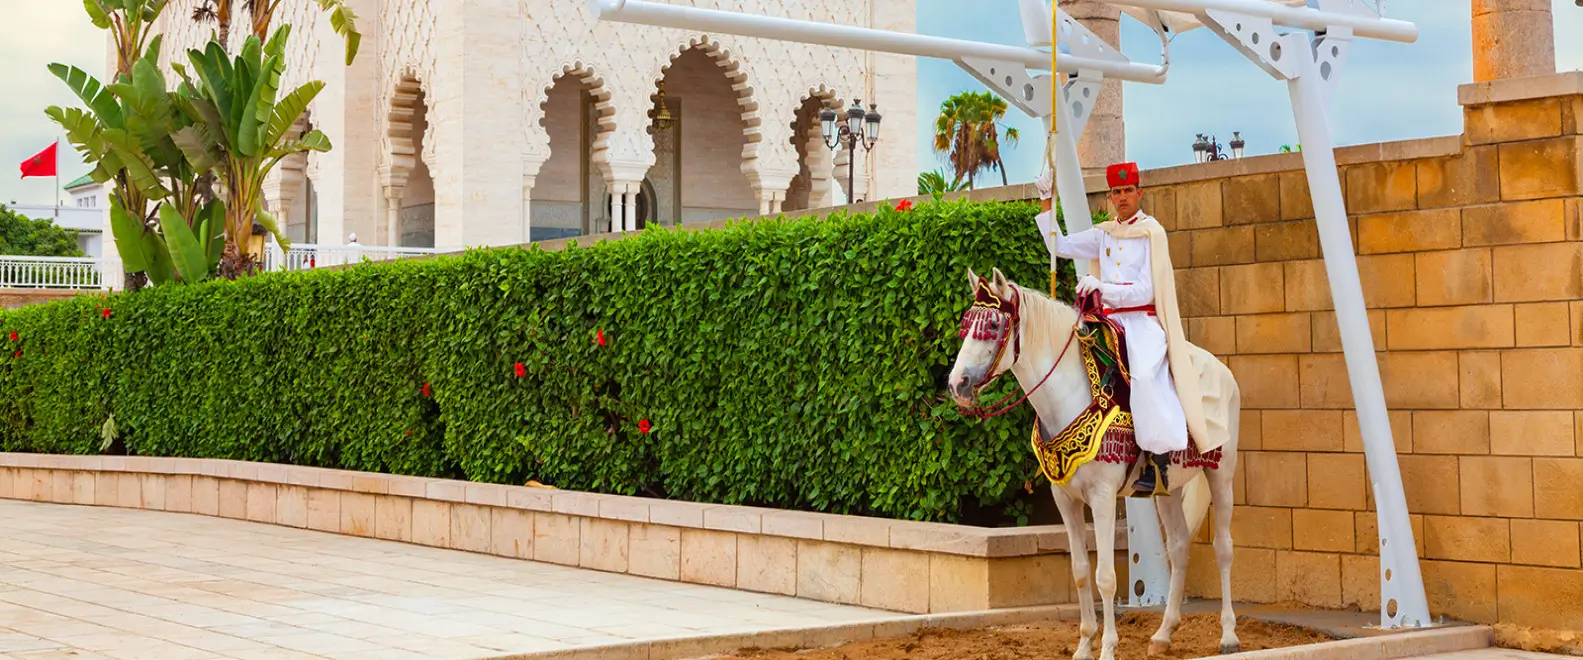
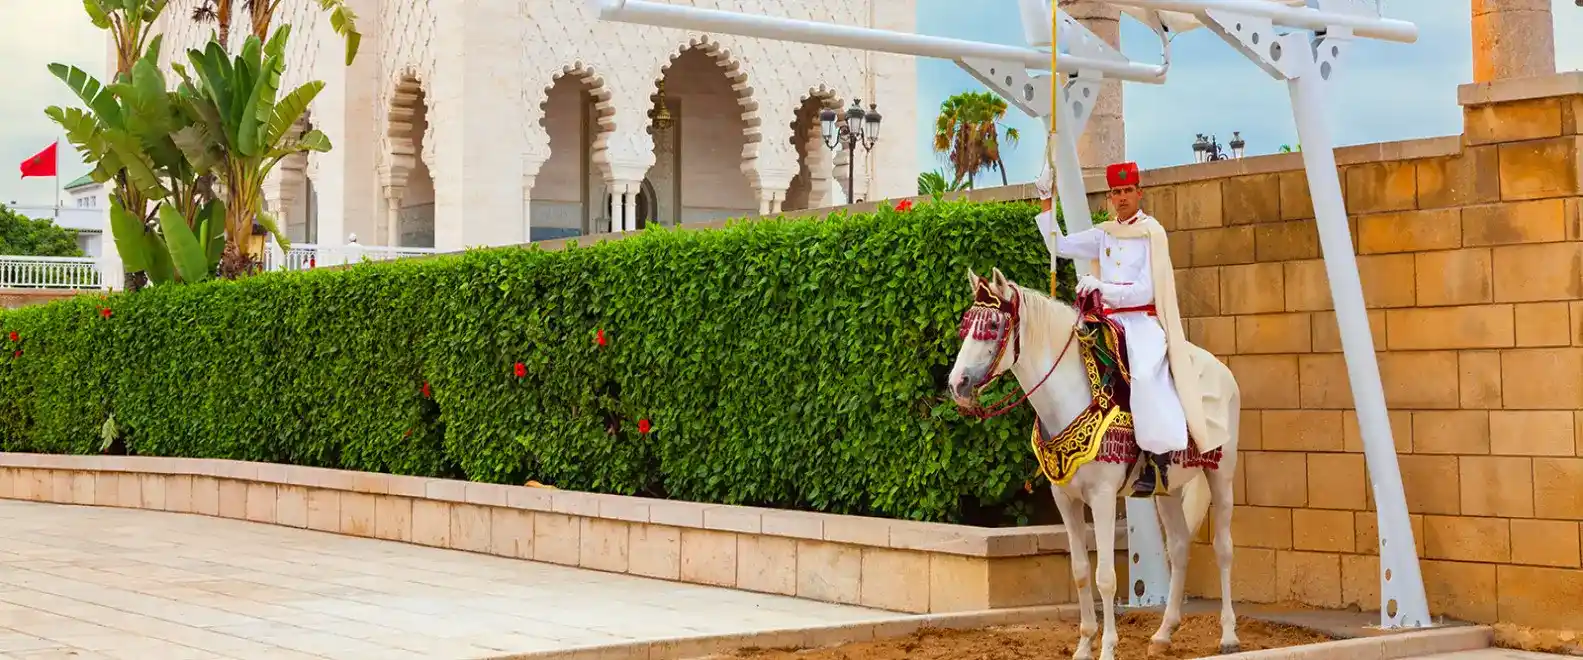
rgrg

diff --git a/index.html b/index.html
@@ -38,7 +38,7 @@
     <meta property="og:url" content="https://osalon-cars.ma/fr" />
     <meta property="og:title" content="Location de Voiture Sala Al Jadida | Agence O'Salon Car Maroc" />
     <meta property="og:description" content="Agence de location de voiture à Sala Al Jadida. Location de voiture Sala Al Jadida, Rabat et aéroport Rabat-Salé. Flotte moderne, tarifs compétitifs." />
-    <meta property="og:image" content="https://osalon-cars.ma/logo-osalon.pdf.png" />
+    <meta property="og:image" content="https://osalon-cars.ma/logo-osalon.pdf.webp" />
     <meta property="og:image:width" content="1200" />
     <meta property="og:image:height" content="630" />
     <meta property="og:locale" content="fr_FR" />
@@ -51,11 +51,11 @@
     <meta name="twitter:url" content="https://osalon-cars.ma/fr" />
     <meta name="twitter:title" content="Location de Voiture Sala Al Jadida | Agence O'Salon Car Maroc" />
     <meta name="twitter:description" content="Agence de location de voiture à Sala Al Jadida. Location de voiture Sala Al Jadida, Rabat et aéroport Rabat-Salé. Flotte moderne, tarifs compétitifs." />
-    <meta name="twitter:image" content="https://osalon-cars.ma/logo-osalon.pdf.png" />
+    <meta name="twitter:image" content="https://osalon-cars.ma/logo-osalon.pdf.webp" />
     
     <!-- Favicon -->
     <link rel="icon" type="image/x-icon" href="/favicon.ico">
-    <link rel="apple-touch-icon" href="/logo-osalon.pdf.png" />
+    <link rel="apple-touch-icon" href="/logo-osalon.pdf.webp" />
     
     <!-- Structured Data (JSON-LD) -->
     <script type="application/ld+json">
@@ -64,7 +64,7 @@
       "@type": "CarRentalService",
       "name": "O'Salon Car - Location de Voiture Sala Al Jadida",
       "alternateName": "Agence de Location de Voiture Sala Al Jadida",
-      "image": "https://osalon-cars.ma/logo-osalon.pdf.png",
+      "image": "https://osalon-cars.ma/logo-osalon.pdf.webp",
       "@id": "https://osalon-cars.ma/",
       "url": "https://osalon-cars.ma/fr",
       "telephone": "+212661492612",
@@ -118,7 +118,7 @@
       "url": "https://osalon-cars.ma/",
       "logo": {
         "@type": "ImageObject",
-        "url": "https://osalon-cars.ma/logo-osalon.pdf.png",
+        "url": "https://osalon-cars.ma/logo-osalon.pdf.webp",
         "width": 400,
         "height": 400
       },
@@ -273,7 +273,7 @@
     <link rel="preconnect" href="https://www.transparenttextures.com">
     
     <!-- LCP Image Preload -->
-    <link rel="preload" href="/osalon-hero.webp" as="image" type="image/webp" fetchpriority="high">
+    <link rel="preload" href="/osalon-hero.webp" as="image" type="image/webp" fetchpriority="high" media="(min-width: 768px)">
     
     <!-- Asynchronous Google Fonts -->
     <link rel="preload" as="style" href="https://fonts.googleapis.com/css2?family=Playfair+Display:wght@400;600;700&family=Outfit:wght@300;400;500;600;700&family=Cairo:wght@400;600;700&display=swap">
@@ -281,15 +281,52 @@
     <noscript>
       <link rel="stylesheet" href="https://fonts.googleapis.com/css2?family=Playfair+Display:wght@400;600;700&family=Outfit:wght@300;400;500;600;700&family=Cairo:wght@400;600;700&display=swap">
     </noscript>
+
+    <style>
+      #initial-loader {
+        position: fixed;
+        top: 0;
+        left: 0;
+        right: 0;
+        bottom: 0;
+        display: flex;
+        flex-direction: column;
+        align-items: center;
+        justify-content: center;
+        background-color: #ffffff;
+        z-index: 99999;
+        font-family: 'Outfit', sans-serif;
+        transition: opacity 0.3s ease-out;
+      }
+      .loader-spinner {
+        width: 50px;
+        height: 50px;
+        border: 4px solid #fde8e8;
+        border-top-color: #851518;
+        border-radius: 50%;
+        animation: spin 1s linear infinite;
+        margin-bottom: 20px;
+      }
+      .loader-text {
+        font-size: 1.5rem;
+        font-weight: 600;
+        color: #851518;
+        letter-spacing: 1px;
+      }
+      @keyframes spin {
+        to {
+          transform: rotate(360deg);
+        }
+      }
+    </style>
   </head>
 
   <body>
-    <div id="root">
-      <div id="initial-loader">
-        <div class="loader-spinner"></div>
-        <div class="loader-text">O'Salon Car</div>
-      </div>
+    <div id="initial-loader">
+      <div class="loader-spinner"></div>
+      <div class="loader-text">O'Salon Car</div>
     </div>
+    <div id="root"></div>
     <script type="module" src="/index.tsx?v=2"></script>
   </body>
 </html>

diff --git a/components/Footer.tsx b/components/Footer.tsx
@@ -16,7 +16,7 @@ const Footer: React.FC = () => {
             <div className="mb-4">
               <Link to={`/${language}`}>
                 <img 
-                  src="/logo-osalon.pdf.png" 
+                  src="/logo-osalon.pdf.webp" 
                   alt={t('nav.logo_alt')} 
                   className={`h-12 w-auto object-contain ${isRTL ? 'mr-0 ml-auto' : 'ml-0 mr-auto'}`}
                 />

diff --git a/components/Navbar.tsx b/components/Navbar.tsx
@@ -104,7 +104,7 @@ const Navbar: React.FC = () => {
                     />
                 ) : (
                     <img 
-                        src="/logo-osalon.pdf.png" 
+                        src="/logo-osalon.pdf.webp" 
                         alt={t('nav.logo_alt')} 
                         className="h-12 md:h-16 w-auto object-contain transition-all duration-300"
                         // @ts-ignore - Fetch priority is a valid standard attribute but React types might lag

diff --git a/constants.ts b/constants.ts
@@ -109,7 +109,7 @@ export const CARS: Car[] = [
     pricePerDay: 350,
     features: ['Climatisation', 'Bluetooth', 'Sécurité ABS', 'GPS'],
     accessories: ['Sièges auto', 'JAWAZ'],
-    image: '/PEUGOT_208.webp',
+    image: '/PEUGOT208.webp',
     isAvailable: true,
     accentColor: '#E8B44A',
     rating: 4.9,